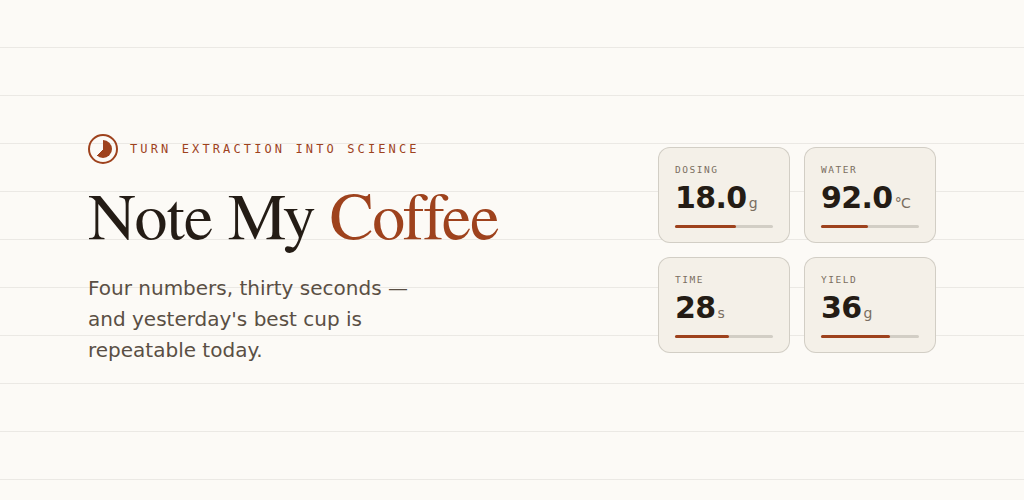
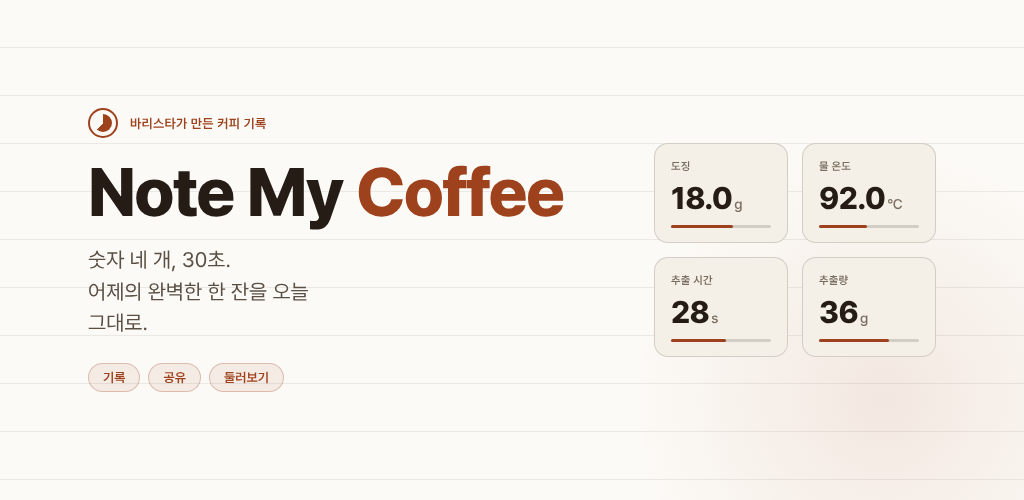
Upgrade Google Play store listing images (Korean, cohesive set)
- Rewrite feature graphic in Korean (Pretendard), exactly 1024x500
- Regenerate 4 phone screenshots (1080x1920) with all-Korean UI:
  record console, share card, discover feed, public profile
- Replace defective tablet screenshot (had tofu icons, English UI,
  stuck "Getting location...", logged-out state) with a clean
  Korean landscape shot (1920x1080)
- Remove stale screenshot (phone-2-logbook)
- Add store/README.md documenting assets, Play specs, and how the
  images are generated

Claude-Session: https://claude.ai/code/session_01XoQqBwDp9cwK6aUSueCpdU

diff --git a/store/android/feature-graphic.html b/store/android/feature-graphic.html
@@ -1,155 +1,74 @@
 <!DOCTYPE html>
-<html lang="en">
+<html lang="ko">
 <head>
 <meta charset="UTF-8">
 <title>Feature Graphic 1024x500</title>
 <!--
-  Google Play 피처 그래픽 원본 (1024x500, PNG/JPEG).
-
-  이 파일을 1024x500 뷰포트로 열어 스크린샷하면 store/android/feature-graphic.png가
-  나온다. 한글 카피로 바꾸고 싶으면 아래 .name/.tag 텍스트를 고치고 한글 폰트가
-  깔린 환경에서 다시 렌더하면 된다(빌드 샌드박스에는 한글 폰트가 없어 영문으로 뒀다).
-
-  주의: 스토어 표면에 따라 가장자리가 잘리거나 UI가 겹칠 수 있다.
-  중요한 요소는 가장자리에서 최소 80px 안쪽에 둔다.
+  Google Play 피처 그래픽 원본 (1024x500, PNG).
+  렌더: 리포지토리 루트에서 python http.server → /store/android/feature-graphic.html 를
+  1024x500 뷰포트로 스크린샷 → store/android/feature-graphic.png.
+  한글 폰트(Pretendard)는 리포지토리에 자체 호스팅돼 있어 그대로 렌더된다.
+  안전 여백: 중요한 요소는 가장자리에서 80px 안쪽.
 -->
+<link rel="stylesheet" href="../../font/pretendard/pretendard.css">
 <style>
   *, *::before, *::after { box-sizing: border-box; margin: 0; padding: 0; }
-
-  /* 브랜드 팔레트 — index.html :root와 같은 값 */
   :root {
-    --paper:  #FCFAF6;
-    --paper2: #F4F0E8;
-    --ink:    #241C15;
-    --ink2:   #5A4F44;
-    --ink3:   #7A6E60;
-    --signal: #9E421D;
-    --rule:   rgba(36,28,21,0.16);
-    --rule-soft: rgba(36,28,21,0.08);
+    --paper:#FCFAF6; --paper2:#F4F0E8; --ink:#241C15; --ink2:#5A4F44; --ink3:#7A6E60;
+    --signal:#9E421D; --rule:rgba(36,28,21,0.16); --rule-soft:rgba(36,28,21,0.08);
+    --sans:'Pretendard Variable',Pretendard,system-ui,sans-serif;
   }
-
-  html, body { width: 1024px; height: 500px; overflow: hidden; }
-
+  html, body { width:1024px; height:500px; overflow:hidden; }
   body {
-    background: var(--paper);
-    color: var(--ink);
-    font-family: 'DejaVu Sans', 'Liberation Sans', system-ui, sans-serif;
-    display: flex;
-    align-items: center;
-    /* 안전 여백 — 잘림에 대비해 88px */
-    padding: 0 88px;
-    gap: 56px;
-    position: relative;
+    background: var(--paper); color: var(--ink);
+    font-family: var(--sans);
+    display:flex; align-items:center; padding:0 88px; gap:52px; position:relative;
+    -webkit-font-smoothing:antialiased;
   }
+  /* 기록지 괘선(은은하게) */
+  body::before{ content:''; position:absolute; inset:0; pointer-events:none;
+    background-image: repeating-linear-gradient(to bottom, transparent 0 47px, var(--rule-soft) 47px 48px); }
+  /* 오른쪽 아래 은은한 클레이 라디언스 */
+  body::after{ content:''; position:absolute; right:-120px; bottom:-160px; width:520px; height:520px; border-radius:50%;
+    background: radial-gradient(circle, rgba(158,66,29,0.10), transparent 68%); pointer-events:none; }
 
-  /* 기록지 괘선. 제품의 '노트' 정체성을 배경으로만 옅게 깐다. */
-  body::before {
-    content: '';
-    position: absolute; inset: 0;
-    background-image: repeating-linear-gradient(
-      to bottom,
-      transparent 0 47px,
-      var(--rule-soft) 47px 48px
-    );
-    pointer-events: none;
-  }
+  .left { position:relative; z-index:1; flex:1 1 auto; }
+  .mark { display:inline-flex; align-items:center; gap:12px; margin-bottom:20px; }
+  .mark-dot { width:30px; height:30px; border-radius:50%; border:2.5px solid var(--signal); position:relative; flex:0 0 auto; }
+  .mark-dot::after { content:''; position:absolute; inset:4px; border-radius:50%;
+    background: conic-gradient(var(--signal) 0 62%, transparent 62% 100%); }
+  .mark-label { font-size:13px; font-weight:600; letter-spacing:0.02em; color:var(--signal); }
 
-  .left { position: relative; z-index: 1; flex: 1 1 auto; }
+  .name { font-size:68px; font-weight:800; line-height:1.0; letter-spacing:-0.03em; margin-bottom:18px; }
+  .name em { font-style:normal; color:var(--signal); }
+  .tag { font-size:21px; line-height:1.5; color:var(--ink2); max-width:20ch; word-break:keep-all; margin-bottom:24px; }
 
-  .mark {
-    display: inline-flex; align-items: center; gap: 12px;
-    margin-bottom: 22px;
-  }
-  .mark-dot {
-    width: 30px; height: 30px; border-radius: 50%;
-    border: 2.5px solid var(--signal);
-    position: relative; flex: 0 0 auto;
-  }
-  /* 추출 게이지 — 원의 일부만 채워 '다이얼링 중'을 암시 */
-  .mark-dot::after {
-    content: ''; position: absolute; inset: 4px;
-    border-radius: 50%;
-    background: conic-gradient(var(--signal) 0 62%, transparent 62% 100%);
-  }
-  .mark-label {
-    font-family: 'DejaVu Sans Mono', monospace;
-    font-size: 12px; letter-spacing: 0.26em; text-transform: uppercase;
-    color: var(--signal);
-  }
+  .chips { display:flex; gap:8px; }
+  .chip { font-size:13px; font-weight:600; color:var(--signal);
+    background:rgba(158,66,29,0.08); border:1px solid rgba(158,66,29,0.28);
+    border-radius:999px; padding:6px 14px; }
 
-  .name {
-    font-family: 'Bitstream Charter', 'FreeSerif', Georgia, serif;
-    font-size: 66px; font-weight: 400; line-height: 1.02;
-    letter-spacing: -0.015em;
-    margin-bottom: 20px;
-  }
-  .name em { font-style: normal; color: var(--signal); }
-
-  .tag {
-    font-size: 20px; line-height: 1.55; color: var(--ink2);
-    max-width: 27ch;
-  }
-
-  /* 오른쪽: 제품의 정체성인 네 숫자 */
-  .stats {
-    position: relative; z-index: 1;
-    flex: 0 0 auto;
-    display: grid; grid-template-columns: repeat(2, 132px);
-    gap: 14px;
-  }
-  .stat {
-    background: var(--paper2);
-    border: 1px solid var(--rule);
-    border-radius: 12px;
-    padding: 16px 16px 14px;
-  }
-  .stat-k {
-    font-family: 'DejaVu Sans Mono', monospace;
-    font-size: 9.5px; letter-spacing: 0.16em; text-transform: uppercase;
-    color: var(--ink3); margin-bottom: 8px;
-  }
-  .stat-v {
-    font-size: 30px; font-weight: 700; line-height: 1;
-    letter-spacing: -0.02em;
-  }
-  .stat-v span { font-size: 14px; font-weight: 400; color: var(--ink3); margin-left: 2px; }
-  .stat-bar { height: 3px; border-radius: 2px; background: var(--rule); margin-top: 12px; }
-  .stat-bar i { display: block; height: 100%; border-radius: 2px; background: var(--signal); }
+  .stats { position:relative; z-index:1; flex:0 0 auto; display:grid; grid-template-columns:repeat(2,134px); gap:14px; }
+  .stat { background:var(--paper2); border:1px solid var(--rule); border-radius:14px; padding:16px 16px 14px; }
+  .stat-k { font-size:11px; font-weight:600; letter-spacing:0.02em; color:var(--ink3); margin-bottom:9px; }
+  .stat-v { font-size:31px; font-weight:800; line-height:1; letter-spacing:-0.02em; }
+  .stat-v span { font-size:14px; font-weight:500; color:var(--ink3); margin-left:2px; }
+  .stat-bar { height:3px; border-radius:2px; background:var(--rule); margin-top:12px; }
+  .stat-bar i { display:block; height:100%; border-radius:2px; background:var(--signal); }
 </style>
 </head>
 <body>
-
   <div class="left">
-    <div class="mark">
-      <div class="mark-dot"></div>
-      <div class="mark-label">Turn extraction into science</div>
-    </div>
+    <div class="mark"><div class="mark-dot"></div><div class="mark-label">바리스타가 만든 커피 기록</div></div>
     <div class="name">Note My <em>Coffee</em></div>
-    <p class="tag">Four numbers, thirty seconds — and yesterday's best cup is repeatable today.</p>
+    <p class="tag">숫자 네 개, 30초.<br>어제의 완벽한 한 잔을 오늘 그대로.</p>
+    <div class="chips"><span class="chip">기록</span><span class="chip">공유</span><span class="chip">둘러보기</span></div>
   </div>
-
   <div class="stats">
-    <div class="stat">
-      <div class="stat-k">Dosing</div>
-      <div class="stat-v">18.0<span>g</span></div>
-      <div class="stat-bar"><i style="width:62%"></i></div>
-    </div>
-    <div class="stat">
-      <div class="stat-k">Water</div>
-      <div class="stat-v">92.0<span>°C</span></div>
-      <div class="stat-bar"><i style="width:48%"></i></div>
-    </div>
-    <div class="stat">
-      <div class="stat-k">Time</div>
-      <div class="stat-v">28<span>s</span></div>
-      <div class="stat-bar"><i style="width:55%"></i></div>
-    </div>
-    <div class="stat">
-      <div class="stat-k">Yield</div>
-      <div class="stat-v">36<span>g</span></div>
-      <div class="stat-bar"><i style="width:70%"></i></div>
-    </div>
+    <div class="stat"><div class="stat-k">도징</div><div class="stat-v">18.0<span>g</span></div><div class="stat-bar"><i style="width:62%"></i></div></div>
+    <div class="stat"><div class="stat-k">물 온도</div><div class="stat-v">92.0<span>°C</span></div><div class="stat-bar"><i style="width:48%"></i></div></div>
+    <div class="stat"><div class="stat-k">추출 시간</div><div class="stat-v">28<span>s</span></div><div class="stat-bar"><i style="width:55%"></i></div></div>
+    <div class="stat"><div class="stat-k">추출량</div><div class="stat-v">36<span>g</span></div><div class="stat-bar"><i style="width:70%"></i></div></div>
   </div>
-
 </body>
 </html>

diff --git a/store/README.md b/store/README.md
@@ -1,0 +1,41 @@
+# Google Play 스토어 등록용 이미지
+
+이 폴더의 파일은 **Play Console에 수동으로 업로드**하는 스토어 등록 자산입니다.
+웹에는 배포되지 않습니다(`firebase.json`의 `ignore`에 `store/**` 포함).
+
+모든 이미지는 앱의 디자인 시스템("계측기 노트")을 그대로 따릅니다 —
+종이색 `#FCFAF6`, 잉크 `#241C15`, 시그널(클레이) `#9E421D`, 한글 Pretendard,
+숫자 IBM Plex Mono, 은은한 기록지 괘선 배경.
+
+## 현재 자산 (`store/android/`)
+
+| 파일 | 크기(px) | 용도 | 문구 |
+|------|---------|------|------|
+| `feature-graphic.png` | 1024 × 500 | 피처 그래픽(필수) | "Note My Coffee · 숫자 네 개, 30초." |
+| `phone-1-record.png` | 1080 × 1920 | 폰 스크린샷 ① 기록 | "숫자 네 개로, 30초 기록." |
+| `phone-2-share.png` | 1080 × 1920 | 폰 스크린샷 ② 공유 | "기록이, 한 장의 카드가 된다." |
+| `phone-3-discover.png` | 1080 × 1920 | 폰 스크린샷 ③ 둘러보기 | "함께 나누는 레시피." |
+| `phone-4-profile.png` | 1080 × 1920 | 폰 스크린샷 ④ 프로필 | "내 커피를 모아, 공개 프로필." |
+| `tablet-1-record.png` | 1920 × 1080 | 태블릿 스크린샷(선택) | "숫자 네 개로 완성하는 나만의 커피 레시피." |
+
+앱 아이콘(512×512)과 PWA 아이콘은 `manifest.json`/리포지토리 루트의 `icon-*.png`를 사용합니다.
+
+## Play Console 이미지 규격
+
+- **앱 아이콘**: 512 × 512 PNG(32bit, 알파)
+- **피처 그래픽**: 1024 × 500 PNG/JPG(투명 불가) — 정확히 이 크기
+- **폰 스크린샷**: 2–8장, 16:9 또는 9:16, 변당 320–3840px. 여기선 1080 × 1920 사용
+- **7"/10" 태블릿 스크린샷**: 선택. 여기선 1920 × 1080(가로) 사용
+
+## 생성 방법(재현)
+
+이미지는 리포지토리 루트에서 로컬 서버를 띄우고 Playwright(Chromium)로
+HTML을 캡처해 만듭니다. 폰 프레임은 앱의 실제 화면/목업을 캡처한 뒤
+문구 프레임 위에 합성합니다. 모든 UI 문구는 한글입니다.
+
+- 피처 그래픽: `store/android/feature-graphic.html`을 1024×500 뷰포트(배율 1)로 캡처.
+- 기록 콘솔: `index.html`의 히어로 데모 폰을 로드 → 텍스트 노드를 한글로 치환 → 캡처.
+- 공유 카드: `brew-card.js`의 `renderBrewCanvas(..., 'ko')`로 스토리 카드 캔버스를 렌더.
+- 둘러보기/프로필: 실제 `style.css` 클래스로 구성한 목업을 캡처.
+
+> 스크린샷 문구를 바꾸려면 캡션 텍스트만 수정 후 다시 렌더하면 됩니다.
